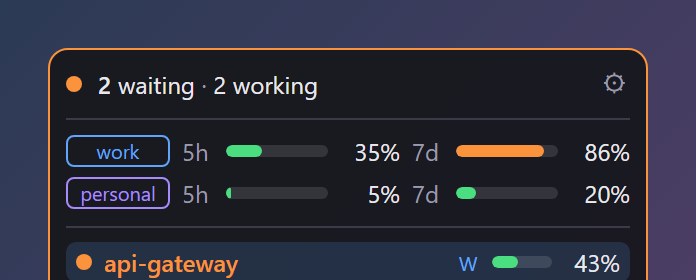
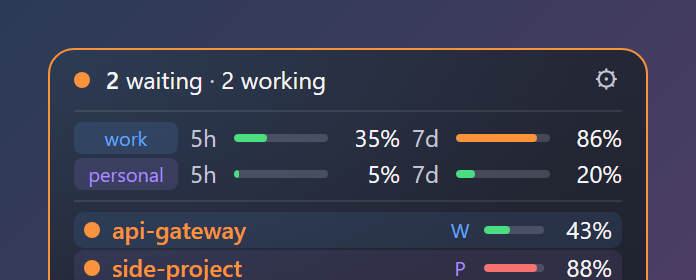
Windows 11 / Fluent look: Mica-like surface, Segoe UI Variable, thin bars, tinted tags, flat core columns, restyled settings, light variant; screenshots regenerated

diff --git a/ui/widget.css b/ui/widget.css
@@ -5,29 +5,35 @@
   --full: #f87171;
   --accent: #a78bfa;
   --alpha: 0.94;
-  --bg: rgba(24, 24, 30, var(--alpha));
-  --border: #3a3a48;
-  --track: rgba(255, 255, 255, 0.12);
-  --hover: rgba(255, 255, 255, 0.06);
-  --field: #111116;
-  --text: #e8e8ee;
-  --muted: #9a9aaa;
-  --idle: #6b6b7b;
+  /* Windows 11 / Fluent: a Mica-like tinted surface (a soft blue glow in the corner over a graphite gradient) */
+  --bg: radial-gradient(ellipse at 0 0, rgba(48, 71, 101, calc(var(--alpha) * 0.62)), transparent 65%),
+    linear-gradient(160deg, rgba(39, 42, 57, var(--alpha)), rgba(29, 32, 43, var(--alpha)));
+  --border: rgba(255, 255, 255, 0.18);
+  --line: rgba(255, 255, 255, 0.09);
+  --track: rgba(185, 187, 205, 0.23);
+  --hover: rgba(255, 255, 255, 0.07);
+  --field: rgba(255, 255, 255, 0.07);
+  --text: #f6f5f9;
+  --muted: #c3c6d5;
+  --idle: #8b8ea0;
 }
 :root.light {
-  --bg: rgba(250, 250, 252, var(--alpha));
-  --border: #d4d4de;
-  --track: rgba(0, 0, 0, 0.1);
-  --hover: rgba(0, 0, 0, 0.05);
-  --field: #ffffff;
-  --text: #1c1c24;
-  --muted: #6b6b7b;
-  --idle: #a0a0ad;
+  --bg: radial-gradient(ellipse at 0 0, rgba(176, 208, 250, calc(var(--alpha) * 0.55)), transparent 65%),
+    linear-gradient(160deg, rgba(246, 248, 252, var(--alpha)), rgba(235, 239, 246, var(--alpha)));
+  --border: rgba(0, 0, 0, 0.14);
+  --line: rgba(0, 0, 0, 0.08);
+  --track: rgba(60, 70, 100, 0.16);
+  --hover: rgba(0, 0, 0, 0.055);
+  --field: rgba(255, 255, 255, 0.75);
+  --text: #1b1d27;
+  --muted: #565b6f;
+  --idle: #9a9eb0;
 }
 
-html, body { margin: 0; background: transparent; color: var(--text); font: 12px system-ui, -apple-system, "Segoe UI", sans-serif;
-  overflow: hidden; user-select: none; }
-#box { background: var(--bg); border: 1px solid var(--border); border-radius: 10px; box-sizing: border-box; padding: 6px 8px;
+html, body { margin: 0; background: transparent; color: var(--text);
+  font: 12px/1.4 "Segoe UI Variable", "Segoe UI", system-ui, -apple-system, sans-serif;
+  font-variant-numeric: tabular-nums; overflow: hidden; user-select: none; }
+#box { background: var(--bg); border: 1px solid var(--border); border-radius: 13px; box-sizing: border-box; padding: 4px 12px 6px;
   height: 100vh; display: flex; flex-direction: column; }
 #view { flex: 1; min-height: 0; overflow: hidden; display: flex; flex-direction: column; }
 #view > .section { flex: none; }
@@ -119,26 +125,31 @@ body.dense8 #limits { display: none; }
 .gear:hover { color: var(--text); }
 
 /* a filled bar: the track is always visible, the fill is the used part (its width is set from JS: the CSP drops style="") */
-.bar { height: 6px; border-radius: 3px; background: var(--track); overflow: hidden; flex: 1; min-width: 30px; }
+.bar { height: 4px; border-radius: 3px; background: var(--track); overflow: hidden; flex: 1; min-width: 30px; }
 .bar i { display: block; height: 100%; width: 0; background: var(--ok); border-radius: 3px; transition: width 0.3s; }
 .bar i.hot { background: var(--warn); }
 .bar i.full { background: var(--full); }
 .pct { width: 30px; text-align: right; flex: none; font-variant-numeric: tabular-nums; }
 
-.section { border-top: 1px solid var(--border); margin-top: 6px; padding-top: 5px; }
+.section { border-top: 1px solid var(--line); margin-top: 6px; padding-top: 5px; }
 .section:empty { display: none !important; }
 /* a limit line is taller than its tag (14 px + border), so two accounts never touch */
 .lim { display: flex; align-items: center; gap: 6px; height: 21px; }
 .lim .lbl { width: 16px; flex: none; color: var(--muted); }
-.tag { font-size: 10px; line-height: 14px; padding: 0 5px; border-radius: 4px; border: 1px solid var(--border); color: var(--muted);
+/* a Fluent tag: a tint of its own colour (the account colour is set inline as color + border-color), no outline */
+.tag { font-size: 10px; line-height: 14px; padding: 0 5px; border-radius: 4px; border: 1px solid transparent; color: var(--muted);
+  background: color-mix(in srgb, currentColor 14%, transparent);
   flex: none; width: 52px; text-align: center; box-sizing: border-box; white-space: nowrap; overflow: hidden; text-overflow: ellipsis; }
 .resets { color: var(--muted); font-size: 10px; margin: 0 0 3px 58px; }
 /* a GPT (Codex) account: a dashed tag with a ⬡ mark tells it from a Claude one; its windows are labelled by length
    ("5h", "7d", "30d"), so the label may be wider; the plan chip closes the line */
 .tag.gpt { border-style: dashed; }
+/* solid tags are a tint only; widget.js sets border-color inline, so it is overridden here (dashed ones keep theirs) */
+.tag:not(.gpt):not(.gemini) { border-color: transparent !important; }
 /* Gemini (agy): its own colour, dashed like the GPT tag; greyed when the probe failed */
-.tag.gemini { border-style: dashed; color: #38bdf8; border-color: #38bdf8; }
+.tag.gemini { border-style: dashed; color: #64cfff; border-color: #64cfff; }
 .tag.gemini.off { color: var(--muted); border-color: var(--border); }
+:root.light .tag.gemini { color: #0a7fb3; border-color: #0a7fb3; }
 .lim.gpt .lbl { width: auto; min-width: 16px; }
 .lim .gerr { overflow: hidden; text-overflow: ellipsis; white-space: nowrap; }
 .chip.plan { text-transform: uppercase; letter-spacing: 0.04em; }
@@ -149,16 +160,16 @@ body.dense6 .lim .chip.plan { display: none; }
    under them a column per core made of its threads, each with a glowing cap */
 .scards { display: grid; grid-template-columns: repeat(3, 1fr); gap: 5px; }
 .scards.two { grid-template-columns: repeat(2, 1fr); }
-.scard { --c: var(--accent); position: relative; min-height: 0; border-radius: 8px; overflow: hidden; background: var(--track);
-  box-shadow: inset 0 0 0 1px color-mix(in srgb, var(--c) 24%, transparent); }
+.scard { --c: var(--accent); position: relative; min-height: 0; border-radius: 6px; overflow: hidden; background: var(--hover);
+  box-shadow: inset 0 0 0 1px var(--line); }
 .scard .sfill { position: absolute; left: 0; right: 0; bottom: 0; height: 3%;
-  background: linear-gradient(to top, color-mix(in srgb, var(--accent) 50%, transparent), color-mix(in srgb, var(--c) 42%, transparent)); }
+  background: linear-gradient(to top, color-mix(in srgb, var(--c) 34%, transparent), color-mix(in srgb, var(--c) 8%, transparent)); }
 .scard svg { position: absolute; inset: 0; width: 100%; height: 100%; }
 .scard polyline { fill: none; stroke: var(--c); stroke-width: 1.6; stroke-linejoin: round; }
 .scard .shd { position: absolute; top: 4px; left: 6px; right: 5px; display: flex; justify-content: space-between; align-items: center;
   font-size: 9px; color: var(--muted); letter-spacing: 0.06em; font-weight: 700; white-space: nowrap; }
-.scard .sval { position: absolute; top: 16px; left: 6px; font-size: 17px; font-weight: 750; font-variant-numeric: tabular-nums;
-  text-shadow: 0 1px 6px rgba(0, 0, 0, 0.55); }
+.scard .sval { position: absolute; top: 16px; left: 6px; font-size: 17px; font-weight: 600; font-variant-numeric: tabular-nums;
+  text-shadow: 0 1px 6px rgba(0, 0, 0, 0.35); }
 .scard .sval small { font-size: 10px; font-weight: 500; color: var(--muted); }
 .scard .ssub { position: absolute; bottom: 4px; left: 6px; right: 5px; font-size: 9px; color: var(--text); opacity: 0.75;
   white-space: nowrap; overflow: hidden; text-overflow: ellipsis; text-shadow: 0 0 4px rgba(0, 0, 0, 0.8); }
@@ -168,17 +179,14 @@ body.dense6 .lim .chip.plan { display: none; }
 .temp.hot { color: var(--warn); background: color-mix(in srgb, var(--warn) 18%, transparent); }
 .temp.full { color: var(--full); background: color-mix(in srgb, var(--full) 20%, transparent); }
 .cores { display: grid; gap: 3px; margin: 5px 0 2px; height: 22px; }
+/* flat Fluent columns: one solid colour per load level, no glow */
 .core { display: flex; gap: 1px; align-items: flex-end; padding: 1px; border-radius: 3px; background: var(--track); }
-.core i { flex: 1; height: 5%; border-radius: 1.5px 1.5px 0 0;
-  background: linear-gradient(to top, color-mix(in srgb, var(--accent) 75%, transparent), color-mix(in srgb, var(--ok) 80%, transparent));
-  border-top: 1.5px solid var(--ok); box-shadow: 0 -1px 4px color-mix(in srgb, var(--ok) 55%, transparent); }
-.core i.hot { background: linear-gradient(to top, color-mix(in srgb, var(--accent) 75%, transparent), var(--warn)); border-top-color: var(--warn);
-  box-shadow: 0 -1px 4px color-mix(in srgb, var(--warn) 55%, transparent); }
-.core i.full { background: linear-gradient(to top, var(--warn), var(--full)); border-top-color: var(--full);
-  box-shadow: 0 -1px 4px color-mix(in srgb, var(--full) 55%, transparent); }
+.core i { flex: 1; height: 5%; border-radius: 1.5px 1.5px 0 0; background: var(--ok); opacity: 0.8; }
+.core i.hot { background: var(--warn); }
+.core i.full { background: var(--full); }
 
 /* the other machine: its own group under this one's */
-#remote:not(:empty) { margin-top: 6px; padding-top: 6px; border-top: 1px solid var(--border); }
+#remote:not(:empty) { margin-top: 6px; padding-top: 6px; border-top: 1px solid var(--line); }
 .rhead { display: flex; align-items: center; gap: 6px; height: 20px; }
 .rhead .rerr { color: var(--full); font-weight: 700; cursor: help; }
 .row .rago { font-size: 10px; flex: none; }
@@ -187,8 +195,8 @@ body.dense6 .lim .chip.plan { display: none; }
 body.dense1 .rsys .scards { grid-auto-rows: minmax(40px, 1fr); }
 .row { display: flex; align-items: center; gap: 6px; min-height: 20px; border-radius: 5px; cursor: pointer; padding: 0 2px; }
 .row:hover { background: var(--hover); }
-.row.acc { background: color-mix(in srgb, var(--acc) 17%, transparent); margin: 2px 0; padding: 0 5px; }
-.row.acc:hover { background: color-mix(in srgb, var(--acc) 27%, transparent); }
+.row.acc { background: color-mix(in srgb, var(--acc) 11%, transparent); margin: 2px 0; padding: 0 5px; }
+.row.acc:hover { background: color-mix(in srgb, var(--acc) 20%, transparent); }
 .row .name { flex: 1; min-width: 0; white-space: nowrap; overflow: hidden; text-overflow: ellipsis; }
 .row.wait .name { color: var(--warn); font-weight: 600; }
 .row .prog { flex: none; font-size: 10px; color: var(--muted); font-variant-numeric: tabular-nums; }
@@ -204,28 +212,34 @@ body.open .sub.details { display: block; }
 /* settings */
 #settings { flex: 1; min-height: 0; overflow-y: auto; padding-right: 2px; }
 #settings input[type=checkbox], #settings input[type=range] { accent-color: var(--accent); }
-#settings h4 { margin: 8px 0 4px; font-size: 11px; text-transform: uppercase; letter-spacing: 0.04em; color: var(--muted); }
+#settings h4 { margin: 10px 0 4px; padding-top: 8px; border-top: 1px solid var(--line); font-size: 12px; font-weight: 600; color: var(--text); }
+#settings h4:first-child { border-top: 0; padding-top: 0; margin-top: 4px; }
 #settings label { display: flex; align-items: center; gap: 6px; margin: 3px 0; }
 #settings label > span:first-child { flex: 1; }
 #settings input[type=text], #settings input[type=password], #settings input[type=number], #settings select {
-  background: var(--field); color: var(--text); border: 1px solid var(--border); border-radius: 5px; padding: 2px 5px;
-  font: 12px system-ui, sans-serif; box-sizing: border-box; min-width: 0; }
+  background: var(--field); color: var(--text); border: 1px solid var(--line); border-bottom-color: var(--muted); border-radius: 4px; padding: 2px 6px;
+  font: 12px "Segoe UI Variable", "Segoe UI", system-ui, sans-serif; box-sizing: border-box; min-width: 0; }
+#settings input:focus, #settings select:focus { outline: none; border-bottom-color: var(--accent); }
+#settings select option { background: #272a39; color: #f6f5f9; }
+:root.light #settings select option { background: #f6f8fc; color: #1b1d27; }
 #settings input[type=number] { width: 52px; }
 #settings input[type=color] { width: 28px; height: 20px; padding: 0; border: 1px solid var(--border); border-radius: 4px; background: none; }
 #settings .wide { width: 100%; }
 #settings .acc { display: flex; gap: 4px; align-items: center; margin: 3px 0; }
 #settings .acc input[name=label] { width: 70px; }
 #settings .acc input[name=dir] { flex: 1; }
-#settings button { background: var(--field); color: var(--text); border: 1px solid var(--border); border-radius: 5px;
-  padding: 2px 8px; font: 12px system-ui, sans-serif; cursor: pointer; white-space: nowrap; }
-#settings button:hover { border-color: var(--accent); }
-#settings button.primary { background: var(--accent); border-color: var(--accent); color: #111; font-weight: 600; }
+#settings button { background: var(--field); color: var(--text); border: 1px solid var(--line); border-radius: 4px;
+  padding: 3px 10px; font: 12px "Segoe UI Variable", "Segoe UI", system-ui, sans-serif; cursor: pointer; white-space: nowrap; }
+#settings button:hover { background: var(--hover); border-color: var(--border); }
+#settings button.primary { background: var(--accent); border-color: var(--accent); color: #0b1220; font-weight: 600; }
+#settings button.primary:hover { filter: brightness(1.08); }
 #settings .hint { color: var(--muted); font-size: 10px; margin: 1px 0 4px; }
 #settings .actions { display: flex; gap: 6px; justify-content: flex-end; margin-top: 8px; position: sticky; bottom: 0;
-  background: var(--bg); padding: 4px 0; }
+  background: linear-gradient(to bottom, transparent, rgba(29, 32, 43, 0.92) 30%); padding: 6px 0 2px; }
+:root.light #settings .actions { background: linear-gradient(to bottom, transparent, rgba(238, 241, 247, 0.95) 30%); }
 #settings .st-connected { color: var(--ok); }
 #settings .st-other { color: var(--muted); }
-::-webkit-scrollbar { width: 6px; } ::-webkit-scrollbar-thumb { background: var(--border); border-radius: 3px; }
+::-webkit-scrollbar { width: 6px; } ::-webkit-scrollbar-thumb { background: var(--muted); opacity: 0.5; border-radius: 3px; }
 /* a background session started by the row above it (its parent) */
 .row.child { margin-left: 12px; }
 /* a subagent (Agent tool) under its session: violet, indented, a ◆ instead of ↳ — never confused with a delegate */
